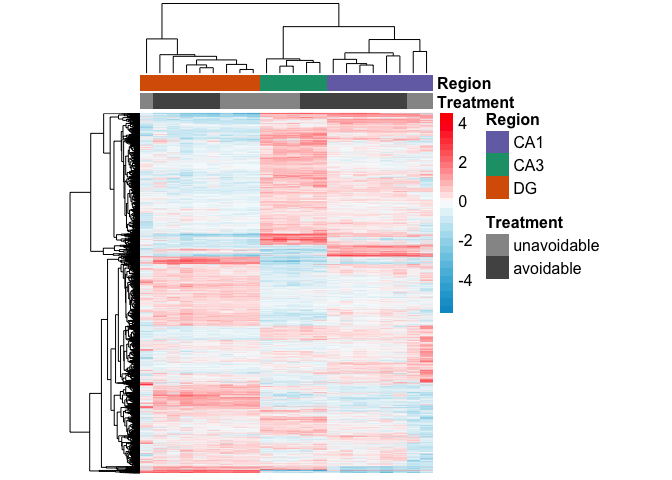
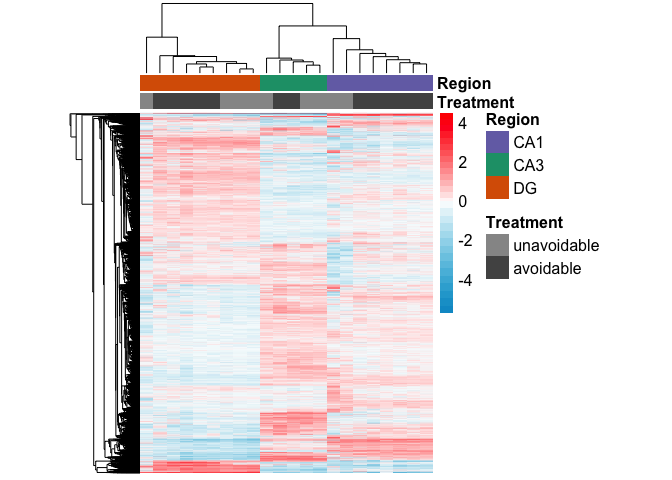
stats

Changed region(s): [[0.0938, 0.1875, 0.6562, 1.0], [0.4062, 0.0312, 0.625, 0.1562], [0.2188, 0.0625, 0.375, 0.1562]]

diff --git a/markdownfiles/03_CognitionTest.md b/markdownfiles/03_CognitionTest.md
@@ -3,6 +3,37 @@ All together now
 
 Combining the two previous analyses
 
+    #source("http://www.bioconductor.org/biocLite.R")
+    #biocLite("DESeq2")
+    library(DESeq2)
+    #library(magrittr)
+    #library(tidyverse)
+    #library(reshape2)
+    library(VennDiagram)
+    library(genefilter)
+    library(pheatmap)
+    library(cowplot)
+    library(RColorBrewer)
+    library(dplyr)
+    library(plyr)
+    library(ggplot2)
+    library(colorRamps)
+    #library(edgeR)
+    # set output file for figures 
+    knitr::opts_chunk$set(fig.path = '../figures/03_cognitiontest/')
+
+    # this starts with data genearated from code described in KallistoGather.Rmd
+    colData <- read.csv('../data/BehaviorSlimColData.csv')
+    rownames(colData) <- colData$RNAseqID
+    countData <-  read.csv('../data/BehaviorSlimCountData.csv', check.names = F, row.names = 1)
+
+    #rename revalue things
+    colData$Group <- plyr::revalue(colData$Group, c("consistent"="avoidable"))
+    colData$Group <- plyr::revalue(colData$Group, c("control"="unavoidable"))
+
+    colData <- rename(colData, c("Group"="Treatment"))
+    colData$Treatment <- factor(colData$Treatment, levels = c("unavoidable", "avoidable"))
+
     dds <- DESeqDataSetFromMatrix(countData = countData,
                                   colData = colData,
                                   design = ~ Treatment + Region + Treatment * Region )
@@ -68,6 +99,227 @@ PCA
     plotPC3PC4(aescolor = pcadata$Region, colorname = "Region", aesshape = pcadata$Treatment, shapename = "Treatment", colorvalues = colorvalRegion)
 
 ![](../figures/03_cognitiontest/PCA-3.png)
+
+    ## statistics
+    aov1 <- aov(PC1 ~ Region, data=pcadata)
+    summary(aov1) 
+
+    FALSE             Df Sum Sq Mean Sq F value   Pr(>F)    
+    FALSE Region       2  10887    5443   199.3 1.78e-13 ***
+    FALSE Residuals   19    519      27                     
+    FALSE ---
+    FALSE Signif. codes:  0 '***' 0.001 '**' 0.01 '*' 0.05 '.' 0.1 ' ' 1
+
+    TukeyHSD(aov1, which = "Region") 
+
+    FALSE   Tukey multiple comparisons of means
+    FALSE     95% family-wise confidence level
+    FALSE 
+    FALSE Fit: aov(formula = PC1 ~ Region, data = pcadata)
+    FALSE 
+    FALSE $Region
+    FALSE              diff       lwr       upr     p adj
+    FALSE CA3-CA1  2.419769 -5.149283  9.988821 0.7002216
+    FALSE DG-CA1  46.138194 39.686734 52.589654 0.0000000
+    FALSE DG-CA3  43.718425 36.312871 51.123979 0.0000000
+
+    aov2 <- aov(PC2 ~ Region, data=pcadata)
+    summary(aov2) 
+
+    FALSE             Df Sum Sq Mean Sq F value   Pr(>F)    
+    FALSE Region       2   3934  1966.9   220.4 7.15e-14 ***
+    FALSE Residuals   19    170     8.9                     
+    FALSE ---
+    FALSE Signif. codes:  0 '***' 0.001 '**' 0.01 '*' 0.05 '.' 0.1 ' ' 1
+
+    TukeyHSD(aov2, which = "Region") 
+
+    FALSE   Tukey multiple comparisons of means
+    FALSE     95% family-wise confidence level
+    FALSE 
+    FALSE Fit: aov(formula = PC2 ~ Region, data = pcadata)
+    FALSE 
+    FALSE $Region
+    FALSE              diff        lwr       upr p adj
+    FALSE CA3-CA1  35.74129  31.414508  40.06807 0e+00
+    FALSE DG-CA1   12.96556   9.277639  16.65348 1e-07
+    FALSE DG-CA3  -22.77573 -27.009049 -18.54241 0e+00
+
+    aov5 <- aov(PC3 ~ Region, data=pcadata)
+    summary(aov5) 
+
+    FALSE             Df Sum Sq Mean Sq F value Pr(>F)
+    FALSE Region       2   36.2   18.10   0.233  0.794
+    FALSE Residuals   19 1476.2   77.69
+
+    TukeyHSD(aov5, which = "Region") 
+
+    FALSE   Tukey multiple comparisons of means
+    FALSE     95% family-wise confidence level
+    FALSE 
+    FALSE Fit: aov(formula = PC3 ~ Region, data = pcadata)
+    FALSE 
+    FALSE $Region
+    FALSE               diff       lwr       upr     p adj
+    FALSE CA3-CA1  2.6303153 -10.13527 15.395904 0.8608940
+    FALSE DG-CA1  -0.6625392 -11.54325 10.218174 0.9869035
+    FALSE DG-CA3  -3.2928546 -15.78270  9.196987 0.7835557
+
+    aov3 <- aov(PC1 ~ Treatment, data=pcadata)
+    summary(aov3) 
+
+    FALSE             Df Sum Sq Mean Sq F value Pr(>F)
+    FALSE Treatment    1     11    10.9   0.019  0.892
+    FALSE Residuals   20  11395   569.7
+
+    TukeyHSD(aov3, which = "Treatment")
+
+    FALSE   Tukey multiple comparisons of means
+    FALSE     95% family-wise confidence level
+    FALSE 
+    FALSE Fit: aov(formula = PC1 ~ Treatment, data = pcadata)
+    FALSE 
+    FALSE $Treatment
+    FALSE                            diff       lwr      upr     p adj
+    FALSE avoidable-unavoidable -1.429518 -23.02022 20.16119 0.8915334
+
+    aov4 <- aov(PC2 ~ Treatment, data=pcadata)
+    summary(aov4) 
+
+    FALSE             Df Sum Sq Mean Sq F value Pr(>F)  
+    FALSE Treatment    1    595   594.6   3.389 0.0805 .
+    FALSE Residuals   20   3509   175.4                 
+    FALSE ---
+    FALSE Signif. codes:  0 '***' 0.001 '**' 0.01 '*' 0.05 '.' 0.1 ' ' 1
+
+    TukeyHSD(aov4, which = "Treatment") 
+
+    FALSE   Tukey multiple comparisons of means
+    FALSE     95% family-wise confidence level
+    FALSE 
+    FALSE Fit: aov(formula = PC2 ~ Treatment, data = pcadata)
+    FALSE 
+    FALSE $Treatment
+    FALSE                            diff       lwr      upr     p adj
+    FALSE avoidable-unavoidable -10.57404 -22.55491 1.406832 0.0805024
+
+    aov6 <- aov(PC3 ~ Treatment, data=pcadata)
+    summary(aov6) 
+
+    FALSE             Df Sum Sq Mean Sq F value Pr(>F)  
+    FALSE Treatment    1  417.6   417.6   7.629  0.012 *
+    FALSE Residuals   20 1094.8    54.7                 
+    FALSE ---
+    FALSE Signif. codes:  0 '***' 0.001 '**' 0.01 '*' 0.05 '.' 0.1 ' ' 1
+
+    TukeyHSD(aov6, which = "Treatment") 
+
+    FALSE   Tukey multiple comparisons of means
+    FALSE     95% family-wise confidence level
+    FALSE 
+    FALSE Fit: aov(formula = PC3 ~ Treatment, data = pcadata)
+    FALSE 
+    FALSE $Treatment
+    FALSE                           diff      lwr      upr     p adj
+    FALSE avoidable-unavoidable 8.861214 2.169019 15.55341 0.0120232
+
+    aov7 <- aov(PC4 ~ Treatment, data=pcadata)
+    summary(aov7) 
+
+    FALSE             Df Sum Sq Mean Sq F value Pr(>F)   
+    FALSE Treatment    1  401.3   401.3   10.43 0.0042 **
+    FALSE Residuals   20  769.5    38.5                  
+    FALSE ---
+    FALSE Signif. codes:  0 '***' 0.001 '**' 0.01 '*' 0.05 '.' 0.1 ' ' 1
+
+    TukeyHSD(aov7, which = "Treatment") 
+
+    FALSE   Tukey multiple comparisons of means
+    FALSE     95% family-wise confidence level
+    FALSE 
+    FALSE Fit: aov(formula = PC4 ~ Treatment, data = pcadata)
+    FALSE 
+    FALSE $Treatment
+    FALSE                           diff      lwr      upr     p adj
+    FALSE avoidable-unavoidable 8.686785 3.076081 14.29749 0.0042023
+
+    lm1 <- lm(PC1~Region*Treatment, data=pcadata)
+    summary(lm1)
+
+    FALSE 
+    FALSE Call:
+    FALSE lm(formula = PC1 ~ Region * Treatment, data = pcadata)
+    FALSE 
+    FALSE Residuals:
+    FALSE      Min       1Q   Median       3Q      Max 
+    FALSE -15.5454  -1.6562   0.0076   2.7007   8.1065 
+    FALSE 
+    FALSE Coefficients:
+    FALSE                              Estimate Std. Error t value Pr(>|t|)    
+    FALSE (Intercept)                  -18.0745     3.7753  -4.788 0.000201 ***
+    FALSE RegionCA3                      0.8076     4.8739   0.166 0.870477    
+    FALSE RegionDG                      41.9626     4.6238   9.075 1.04e-07 ***
+    FALSE Treatmentavoidable            -1.8002     4.3594  -0.413 0.685126    
+    FALSE RegionCA3:Treatmentavoidable   2.4553     6.5391   0.375 0.712229    
+    FALSE RegionDG:Treatmentavoidable    6.8860     5.6420   1.220 0.239962    
+    FALSE ---
+    FALSE Signif. codes:  0 '***' 0.001 '**' 0.01 '*' 0.05 '.' 0.1 ' ' 1
+    FALSE 
+    FALSE Residual standard error: 5.339 on 16 degrees of freedom
+    FALSE Multiple R-squared:   0.96,   Adjusted R-squared:  0.9475 
+    FALSE F-statistic: 76.82 on 5 and 16 DF,  p-value: 1.309e-10
+
+    anova(lm1) 
+
+    FALSE Analysis of Variance Table
+    FALSE 
+    FALSE Response: PC1
+    FALSE                  Df  Sum Sq Mean Sq  F value    Pr(>F)    
+    FALSE Region            2 10886.9  5443.4 190.9550 6.834e-12 ***
+    FALSE Treatment         1    17.9    17.9   0.6281    0.4397    
+    FALSE Region:Treatment  2    45.0    22.5   0.7884    0.4714    
+    FALSE Residuals        16   456.1    28.5                       
+    FALSE ---
+    FALSE Signif. codes:  0 '***' 0.001 '**' 0.01 '*' 0.05 '.' 0.1 ' ' 1
+
+    lm2 <- lm(PC2~Region*Treatment, data=pcadata)
+    summary(lm2)
+
+    FALSE 
+    FALSE Call:
+    FALSE lm(formula = PC2 ~ Region * Treatment, data = pcadata)
+    FALSE 
+    FALSE Residuals:
+    FALSE    Min     1Q Median     3Q    Max 
+    FALSE -3.986 -1.139 -0.104  1.168  4.856 
+    FALSE 
+    FALSE Coefficients:
+    FALSE                              Estimate Std. Error t value Pr(>|t|)    
+    FALSE (Intercept)                  -11.3447     1.7071  -6.645 5.63e-06 ***
+    FALSE RegionCA3                     34.3979     2.2039  15.608 4.21e-11 ***
+    FALSE RegionDG                      13.7858     2.0908   6.594 6.18e-06 ***
+    FALSE Treatmentavoidable            -2.7766     1.9712  -1.409    0.178    
+    FALSE RegionCA3:Treatmentavoidable   0.9291     2.9568   0.314    0.757    
+    FALSE RegionDG:Treatmentavoidable   -2.4482     2.5512  -0.960    0.352    
+    FALSE ---
+    FALSE Signif. codes:  0 '***' 0.001 '**' 0.01 '*' 0.05 '.' 0.1 ' ' 1
+    FALSE 
+    FALSE Residual standard error: 2.414 on 16 degrees of freedom
+    FALSE Multiple R-squared:  0.9773,  Adjusted R-squared:  0.9702 
+    FALSE F-statistic: 137.6 on 5 and 16 DF,  p-value: 1.46e-12
+
+    anova(lm2)
+
+    FALSE Analysis of Variance Table
+    FALSE 
+    FALSE Response: PC2
+    FALSE                  Df Sum Sq Mean Sq  F value    Pr(>F)    
+    FALSE Region            2 3933.8 1966.91 337.4576 8.271e-14 ***
+    FALSE Treatment         1   65.8   65.77  11.2839   0.00399 ** 
+    FALSE Region:Treatment  2   10.6    5.28   0.9054   0.42414    
+    FALSE Residuals        16   93.3    5.83                       
+    FALSE ---
+    FALSE Signif. codes:  0 '***' 0.001 '**' 0.01 '*' 0.05 '.' 0.1 ' ' 1
 
     ## DEG by contrasts
     source("resvalsfunction.R")
@@ -145,11 +397,12 @@ Heatmaps
     pheatmap(DEGes, show_colnames=F, show_rownames = F,
              annotation_col=df, annotation_colors = ann_colors,
              fontsize = 12, fontsize_row = 7, 
-             cellwidth=10, 
+             cellwidth = 10, 
              border_color = "grey60" ,
              color = colorpalette,
              clustering_distance_cols="correlation" ,
-             breaks=myBreaks
+             breaks=myBreaks,
+             clustering_method="average"
              )
 
 ![](../figures/03_cognitiontest/HeatmapPadj-1.png)
@@ -162,13 +415,67 @@ Heatmaps
              width=4.5, height=3,
              border_color = "grey60" ,
              color = colorpalette,
-             cellwidth = 9, 
+             cellwidth = 8, 
              filename = "../figures/03_cognitiontest/HeatmapPadj-1.pdf",
              clustering_distance_cols="correlation" ,
-             breaks=myBreaks
+             breaks=myBreaks,
+             clustering_method="average"
+             )
+
+    ## Any pvalue <0.1
+    DEGes <- assay(rld)
+    DEGes <- cbind(DEGes, contrast1, contrast2, contrast3, contrast4)
+    DEGes <- as.data.frame(DEGes) # convert matrix to dataframe
+    DEGes$rownames <- rownames(DEGes)  # add the rownames to the dataframe
+
+    DEGes$pvalmin <- with(DEGes, pmin(pvalTreatmentavoidableunavoidable, pvalRegionCA1DG ,pvalRegionCA3DG, pvalRegionCA1CA3 )) # put the min pvalue in a new column
+    DEGes <- DEGes %>% filter(pvalmin < 0.1)
+
+    rownames(DEGes) <- DEGes$rownames
+    drop.cols <-colnames(DEGes[,grep("padj|pval|rownames", colnames(DEGes))])
+    DEGes <- DEGes %>% select(-one_of(drop.cols))
+    DEGes <- as.matrix(DEGes)
+    DEGes <- DEGes - rowMeans(DEGes)
+
+
+    # setting color options
+    source("figureoptions.R")
+    ann_colors <- ann_colorsbehavior
+    colorpalette <- cembrowskicolors
+    df <- as.data.frame(colData(dds)[,c("Treatment", "Region")])
+
+    paletteLength <- 30
+    myBreaks <- c(seq(min(DEGes), 0, length.out=ceiling(paletteLength/2) + 1), 
+                  seq(max(DEGes)/paletteLength, max(DEGes), length.out=floor(paletteLength/2)))
+
+    # for markdown file
+    pheatmap(DEGes, show_colnames=T, show_rownames = F,
+             annotation_col=df, annotation_colors = ann_colors,
+             treeheight_row = 0, treeheight_col = 25,
+             fontsize = 11, 
+             border_color = "grey60" ,
+             color = colorpalette,
+             clustering_method="average",
+             breaks=myBreaks,
+             clustering_distance_cols="correlation" 
              )
 
 ![](../figures/03_cognitiontest/HeatmapPvalue-1.png)
+
+    # for adobe
+    pheatmap(DEGes, show_colnames=F, show_rownames = F,
+             annotation_col=df, annotation_colors = ann_colors,
+             treeheight_row = 0, treeheight_col = 25,
+             fontsize = 11, 
+             width=4.5, height=3,
+             border_color = "grey60" ,
+             color = colorpalette,
+             cellwidth = 11, 
+             filename = "../figures/03_cognitiontest/HeatmapPadj-1.pdf",
+             clustering_method="average",
+             breaks=myBreaks,
+             clustering_distance_cols="correlation" 
+             )
 
     FALSE 
     FALSE FALSE  TRUE 
